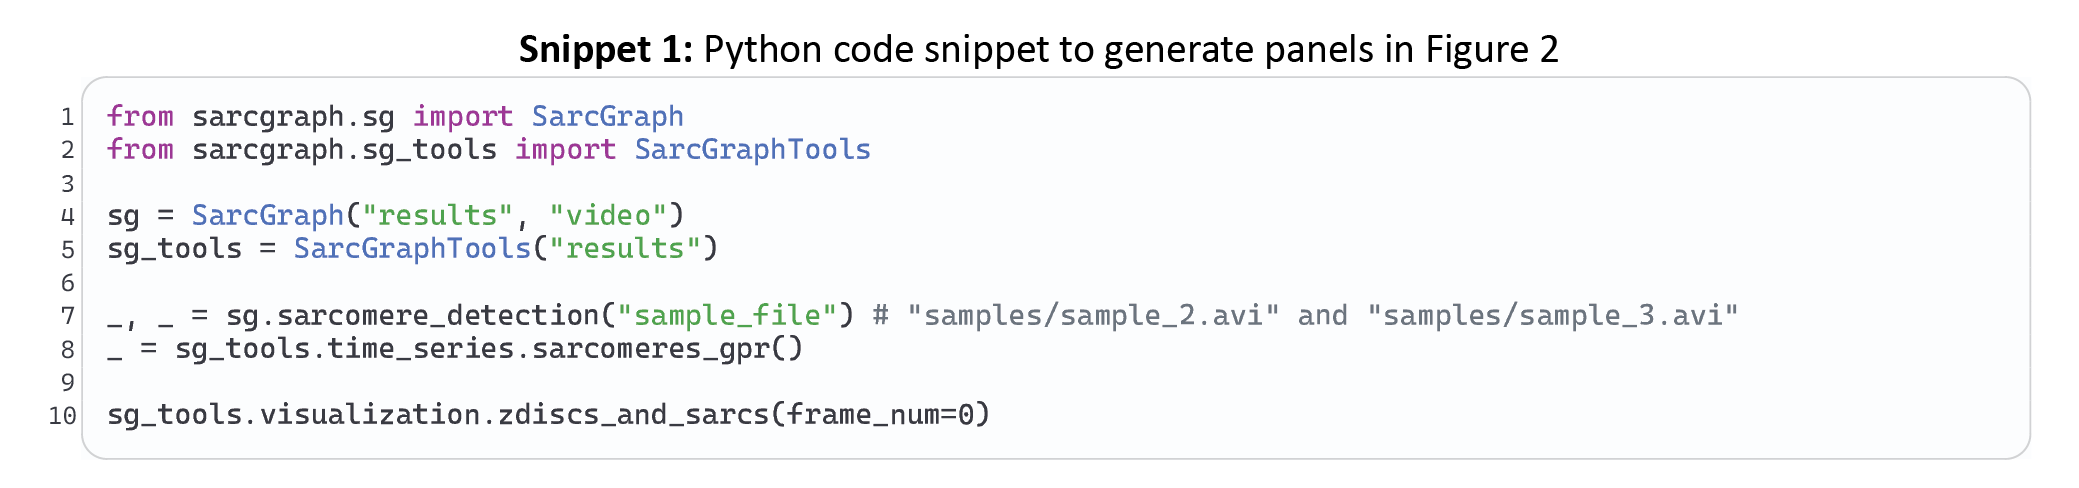
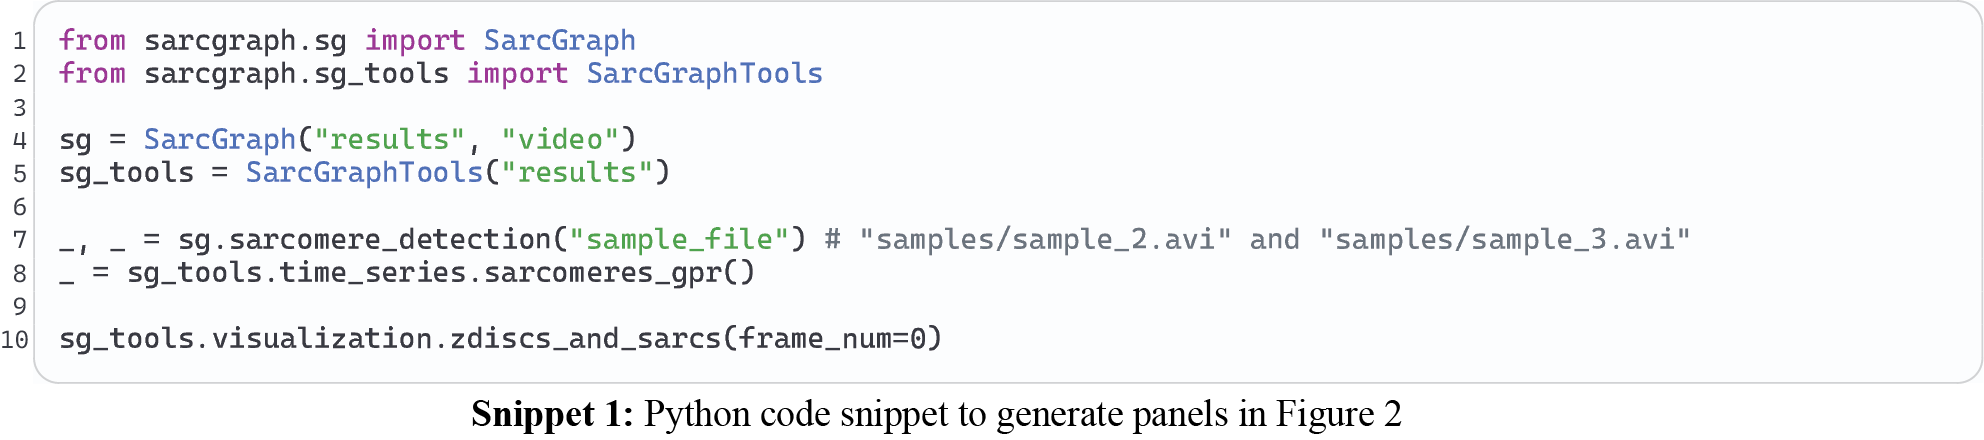
changing snippet size

diff --git a/paper.md b/paper.md
@@ -90,10 +90,7 @@ To prune this spatial graph such that only accurately detected sarcomeres remain
 
 In this Appendix, we present the code snippets used to generate the figures in the main text. It should be noted that some minor aesthetic adjustments have been made to the figures after their initial generation using these snippets in order to enhance their visual clarity and presentation quality within the paper (e.g., moving legends or changing titles).
 
-
 ![](figures/snippet1.png){width=100%}
-
-![](figures/snippet1.eps)
 
 **Snippet 2:** Python code snippet to generate the panels in \autoref{fig:features}
 
